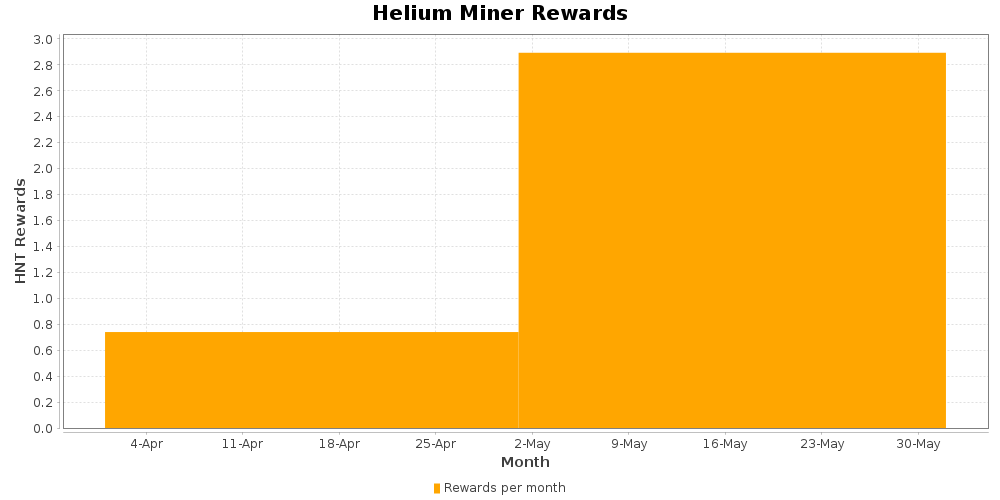
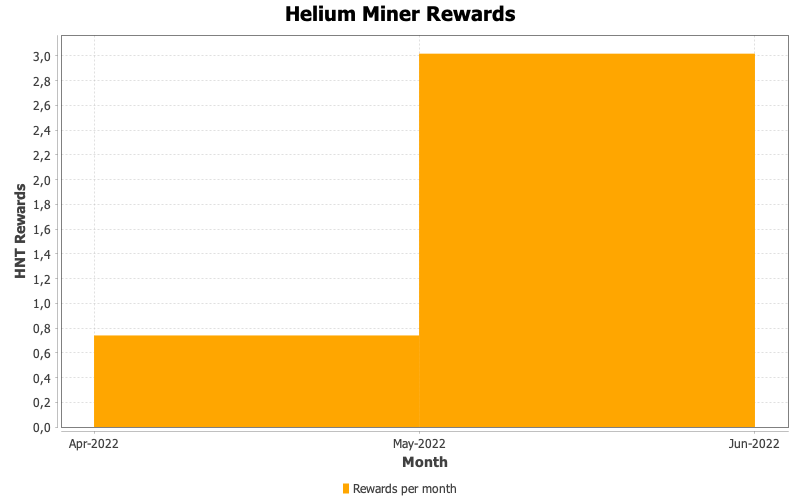
refactoring

Changed region(s): [[0.0, 0.0, 1.0, 0.93], [0.4062, 0.96, 0.5625, 0.99]]

diff --git a/src/main/java/ch/helium/UpdateChart.java b/src/main/java/ch/helium/UpdateChart.java
@@ -1,5 +1,9 @@
 package ch.helium;
 
+import static java.awt.Color.lightGray;
+import static java.awt.Color.white;
+import static org.jfree.chart.axis.DateTickUnitType.MONTH;
+
 import java.awt.Color;
 import java.io.File;
 import java.io.FileReader;
@@ -13,6 +17,8 @@ import java.util.HashMap;
 import org.jfree.chart.ChartFactory;
 import org.jfree.chart.ChartUtils;
 import org.jfree.chart.JFreeChart;
+import org.jfree.chart.axis.DateAxis;
+import org.jfree.chart.axis.DateTickUnit;
 import org.jfree.chart.plot.PlotOrientation;
 import org.jfree.chart.renderer.xy.StandardXYBarPainter;
 import org.jfree.chart.renderer.xy.XYBarRenderer;
@@ -22,10 +28,7 @@ import org.jfree.data.time.TimeSeriesCollection;
 
 import com.google.gson.Gson;
 
-import lombok.AllArgsConstructor;
-import lombok.Getter;
-import lombok.NoArgsConstructor;
-import lombok.Setter;
+import ch.helium.models.DataEntry;
 import lombok.extern.slf4j.Slf4j;
 
 @Slf4j
@@ -34,13 +37,17 @@ public class UpdateChart {
     public static void main(final String[] args) throws IOException {
         LOG.info("Update bar chart image");
 
-        final File dataDir = Paths.get("data").toFile();
-        final File[] files = dataDir.listFiles();
+        final HashMap<String, Float> rewardsPerMonth = parseData();
+        final TimeSeries timeSeries = createTimeSeries(rewardsPerMonth);
+        final JFreeChart chart = createChart(timeSeries);
+        saveChart(chart);
+    }
 
-        final TimeSeries timeSeries = new TimeSeries("Rewards per month", "Month", "Rewards");
-
+    private static HashMap<String, Float> parseData() {
         final Gson gson = new Gson();
         final HashMap<String, Float> rewardsPerMonth = new HashMap<>();
+        final File dataDir = Paths.get("data").toFile();
+        final File[] files = dataDir.listFiles();
         Arrays.stream(files).forEach(file -> {
             try {
                 final DataEntry dataEntry = gson.fromJson(new FileReader(file), DataEntry.class);
@@ -50,17 +57,24 @@ public class UpdateChart {
                 LOG.warn(e.getMessage());
             }
         });
+        return rewardsPerMonth;
+    }
 
+    private static TimeSeries createTimeSeries(final HashMap<String, Float> rewardsPerMonth) {
+        final TimeSeries timeSeries = new TimeSeries("Rewards per month", "Month", "Rewards");
         final SimpleDateFormat formatter = new SimpleDateFormat("yyyy-MM");
-
         rewardsPerMonth.forEach((key, value) -> {
             try {
+                LOG.debug("Add timeseries {} {}", key, value);
                 timeSeries.add(new Month(formatter.parse(key)), value);
             } catch (final ParseException e) {
                 LOG.warn(e.getMessage());
             }
         });
+        return timeSeries;
+    }
 
+    private static JFreeChart createChart(final TimeSeries timeSeries) {
         final JFreeChart chart = ChartFactory.createXYBarChart("Helium Miner Rewards",
                 "Month",
                 true,
@@ -70,17 +84,21 @@ public class UpdateChart {
                 true,
                 false,
                 false);
-        chart.getXYPlot().setBackgroundPaint(Color.white);
-        chart.getXYPlot().setDomainGridlinePaint(Color.lightGray);
-        chart.getXYPlot().setRangeGridlinePaint(Color.lightGray);
+        chart.getXYPlot().setBackgroundPaint(white);
+        chart.getXYPlot().setDomainGridlinePaint(lightGray);
+        chart.getXYPlot().setRangeGridlinePaint(lightGray);
+
         final XYBarRenderer renderer = (XYBarRenderer) chart.getXYPlot().getRenderer();
         renderer.setSeriesPaint(0, new Color(255, 166, 0));
-        renderer.setSeriesPaint(1, new Color(255, 99, 97));
-        renderer.setSeriesPaint(2, new Color(188, 80, 144));
-        renderer.setSeriesPaint(3, new Color(88, 80, 141));
-        renderer.setSeriesPaint(4, new Color(0, 63, 92));
         renderer.setBarPainter(new StandardXYBarPainter());
-        final int width = 1000;
+
+        final DateAxis axis = (DateAxis) chart.getXYPlot().getDomainAxis();
+        axis.setTickUnit(new DateTickUnit(MONTH, 1, new SimpleDateFormat("MMM-yyyy")));
+        return chart;
+    }
+
+    private static void saveChart(final JFreeChart chart) throws IOException {
+        final int width = 800;
         final int height = 500;
         final File outputFile = new File("chart.png");
         ChartUtils.saveChartAsPNG(outputFile, chart, width, height);
@@ -88,37 +106,5 @@ public class UpdateChart {
 
     private static String getYearAndMonth(final File file) {
         return file.getName().subSequence(0, 7).toString();
-    }
-
-    @Getter
-    @Setter
-    @NoArgsConstructor
-    @AllArgsConstructor
-    public class DataEntry {
-        Meta meta;
-        Data data;
-    }
-
-    @Getter
-    @Setter
-    @NoArgsConstructor
-    @AllArgsConstructor
-    public class Data {
-        private float total;
-        private float sum;
-        private float stddev;
-        private float min;
-        private float median;
-        private float max;
-        private float avg;
-    }
-
-    @Getter
-    @Setter
-    @NoArgsConstructor
-    @AllArgsConstructor
-    public class Meta {
-        private String min_time;
-        private String max_time;
     }
 }

diff --git a/src/main/java/ch/helium/models/Data.java b/src/main/java/ch/helium/models/Data.java
@@ -1,0 +1,20 @@
+package ch.helium.models;
+
+import lombok.AllArgsConstructor;
+import lombok.Getter;
+import lombok.NoArgsConstructor;
+import lombok.Setter;
+
+@Getter
+@Setter
+@NoArgsConstructor
+@AllArgsConstructor
+public class Data {
+    private float total;
+    private float sum;
+    private float stddev;
+    private float min;
+    private float median;
+    private float max;
+    private float avg;
+}

diff --git a/src/main/java/ch/helium/models/Meta.java b/src/main/java/ch/helium/models/Meta.java
@@ -1,0 +1,15 @@
+package ch.helium.models;
+
+import lombok.AllArgsConstructor;
+import lombok.Getter;
+import lombok.NoArgsConstructor;
+import lombok.Setter;
+
+@Getter
+@Setter
+@NoArgsConstructor
+@AllArgsConstructor
+public class Meta {
+    private String minTime;
+    private String maxTime;
+}

diff --git a/src/main/java/ch/helium/models/DataEntry.java b/src/main/java/ch/helium/models/DataEntry.java
@@ -1,0 +1,15 @@
+package ch.helium.models;
+
+import lombok.AllArgsConstructor;
+import lombok.Getter;
+import lombok.NoArgsConstructor;
+import lombok.Setter;
+
+@Getter
+@Setter
+@NoArgsConstructor
+@AllArgsConstructor
+public class DataEntry {
+    Meta meta;
+    Data data;
+}
